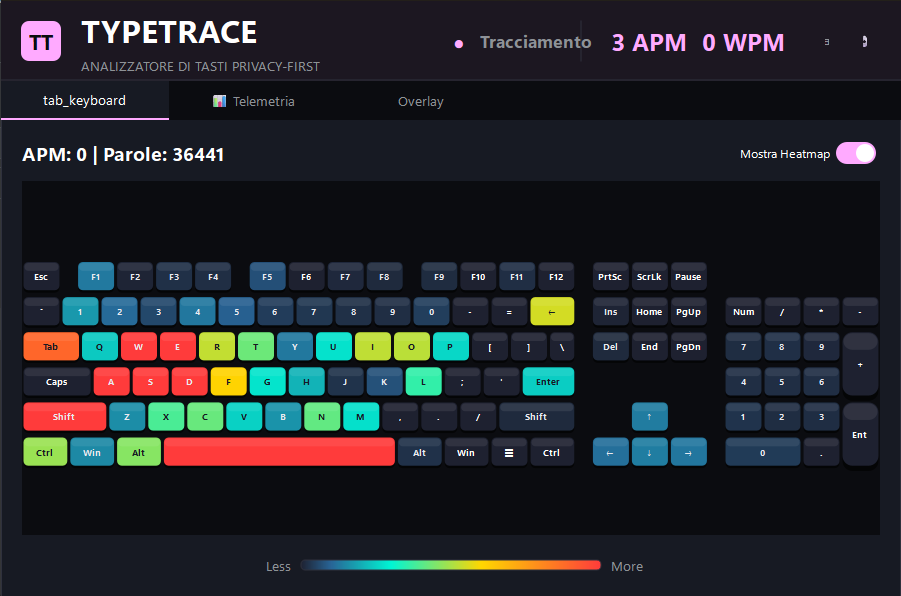
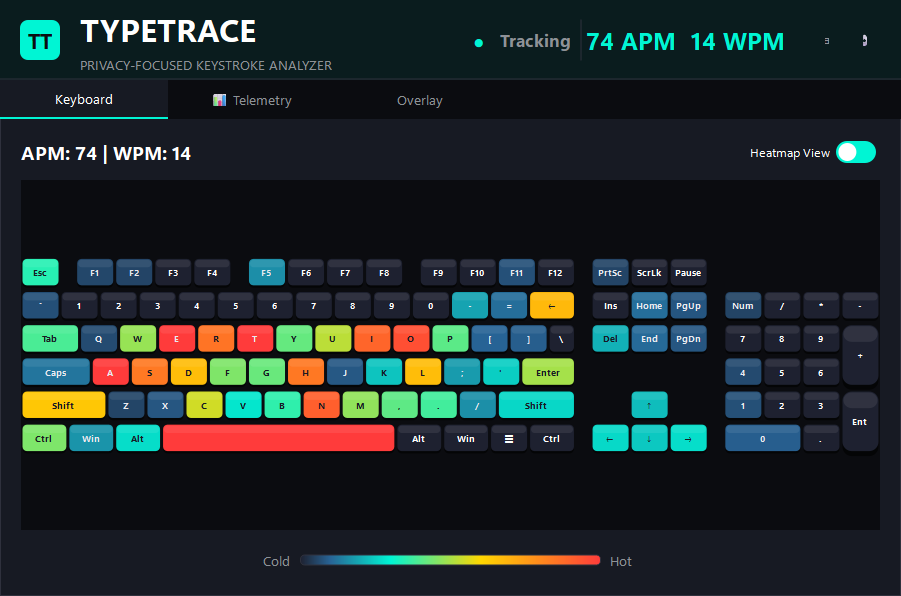
Replace the README screenshot, drop a stray variation selector
The screenshot showed a database from real use and, more awkwardly, it
documented two of the bugs this release fixes: the first tab was labelled
"tab_keyboard" because that translation key was missing, and Esc, the comma,
the brackets and Caps Lock were all dark because the tracker and the drawn
keyboard disagreed on their names. Regenerated from a synthetic database with
English letter frequencies.

The settings button carried an emoji variation selector (U+FE0F) after the
gear. The interface font has the gear but not the selector, so it rendered as
an empty box next to the icon.

diff --git a/ui.py b/ui.py
@@ -517,7 +517,9 @@ class HeaderWidget(QWidget):
         self.compact_btn.setToolTip(self.tr.t("compact_mode") if self.tr else "Compact Mode")
         layout.addWidget(self.compact_btn)
         
-        self.settings_btn = QPushButton("⚙")
+        # Senza il selettore di variante U+FE0F: il font dell'interfaccia non
+        # lo contiene e lo disegnava come un quadratino vuoto accanto all'icona.
+        self.settings_btn = QPushButton("⚙")
         self.settings_btn.setFixedSize(32, 32)
         self.settings_btn.setCursor(Qt.CursorShape.PointingHandCursor)
         self.settings_btn.setToolTip(self.tr.t("settings") if self.tr else "Settings")
